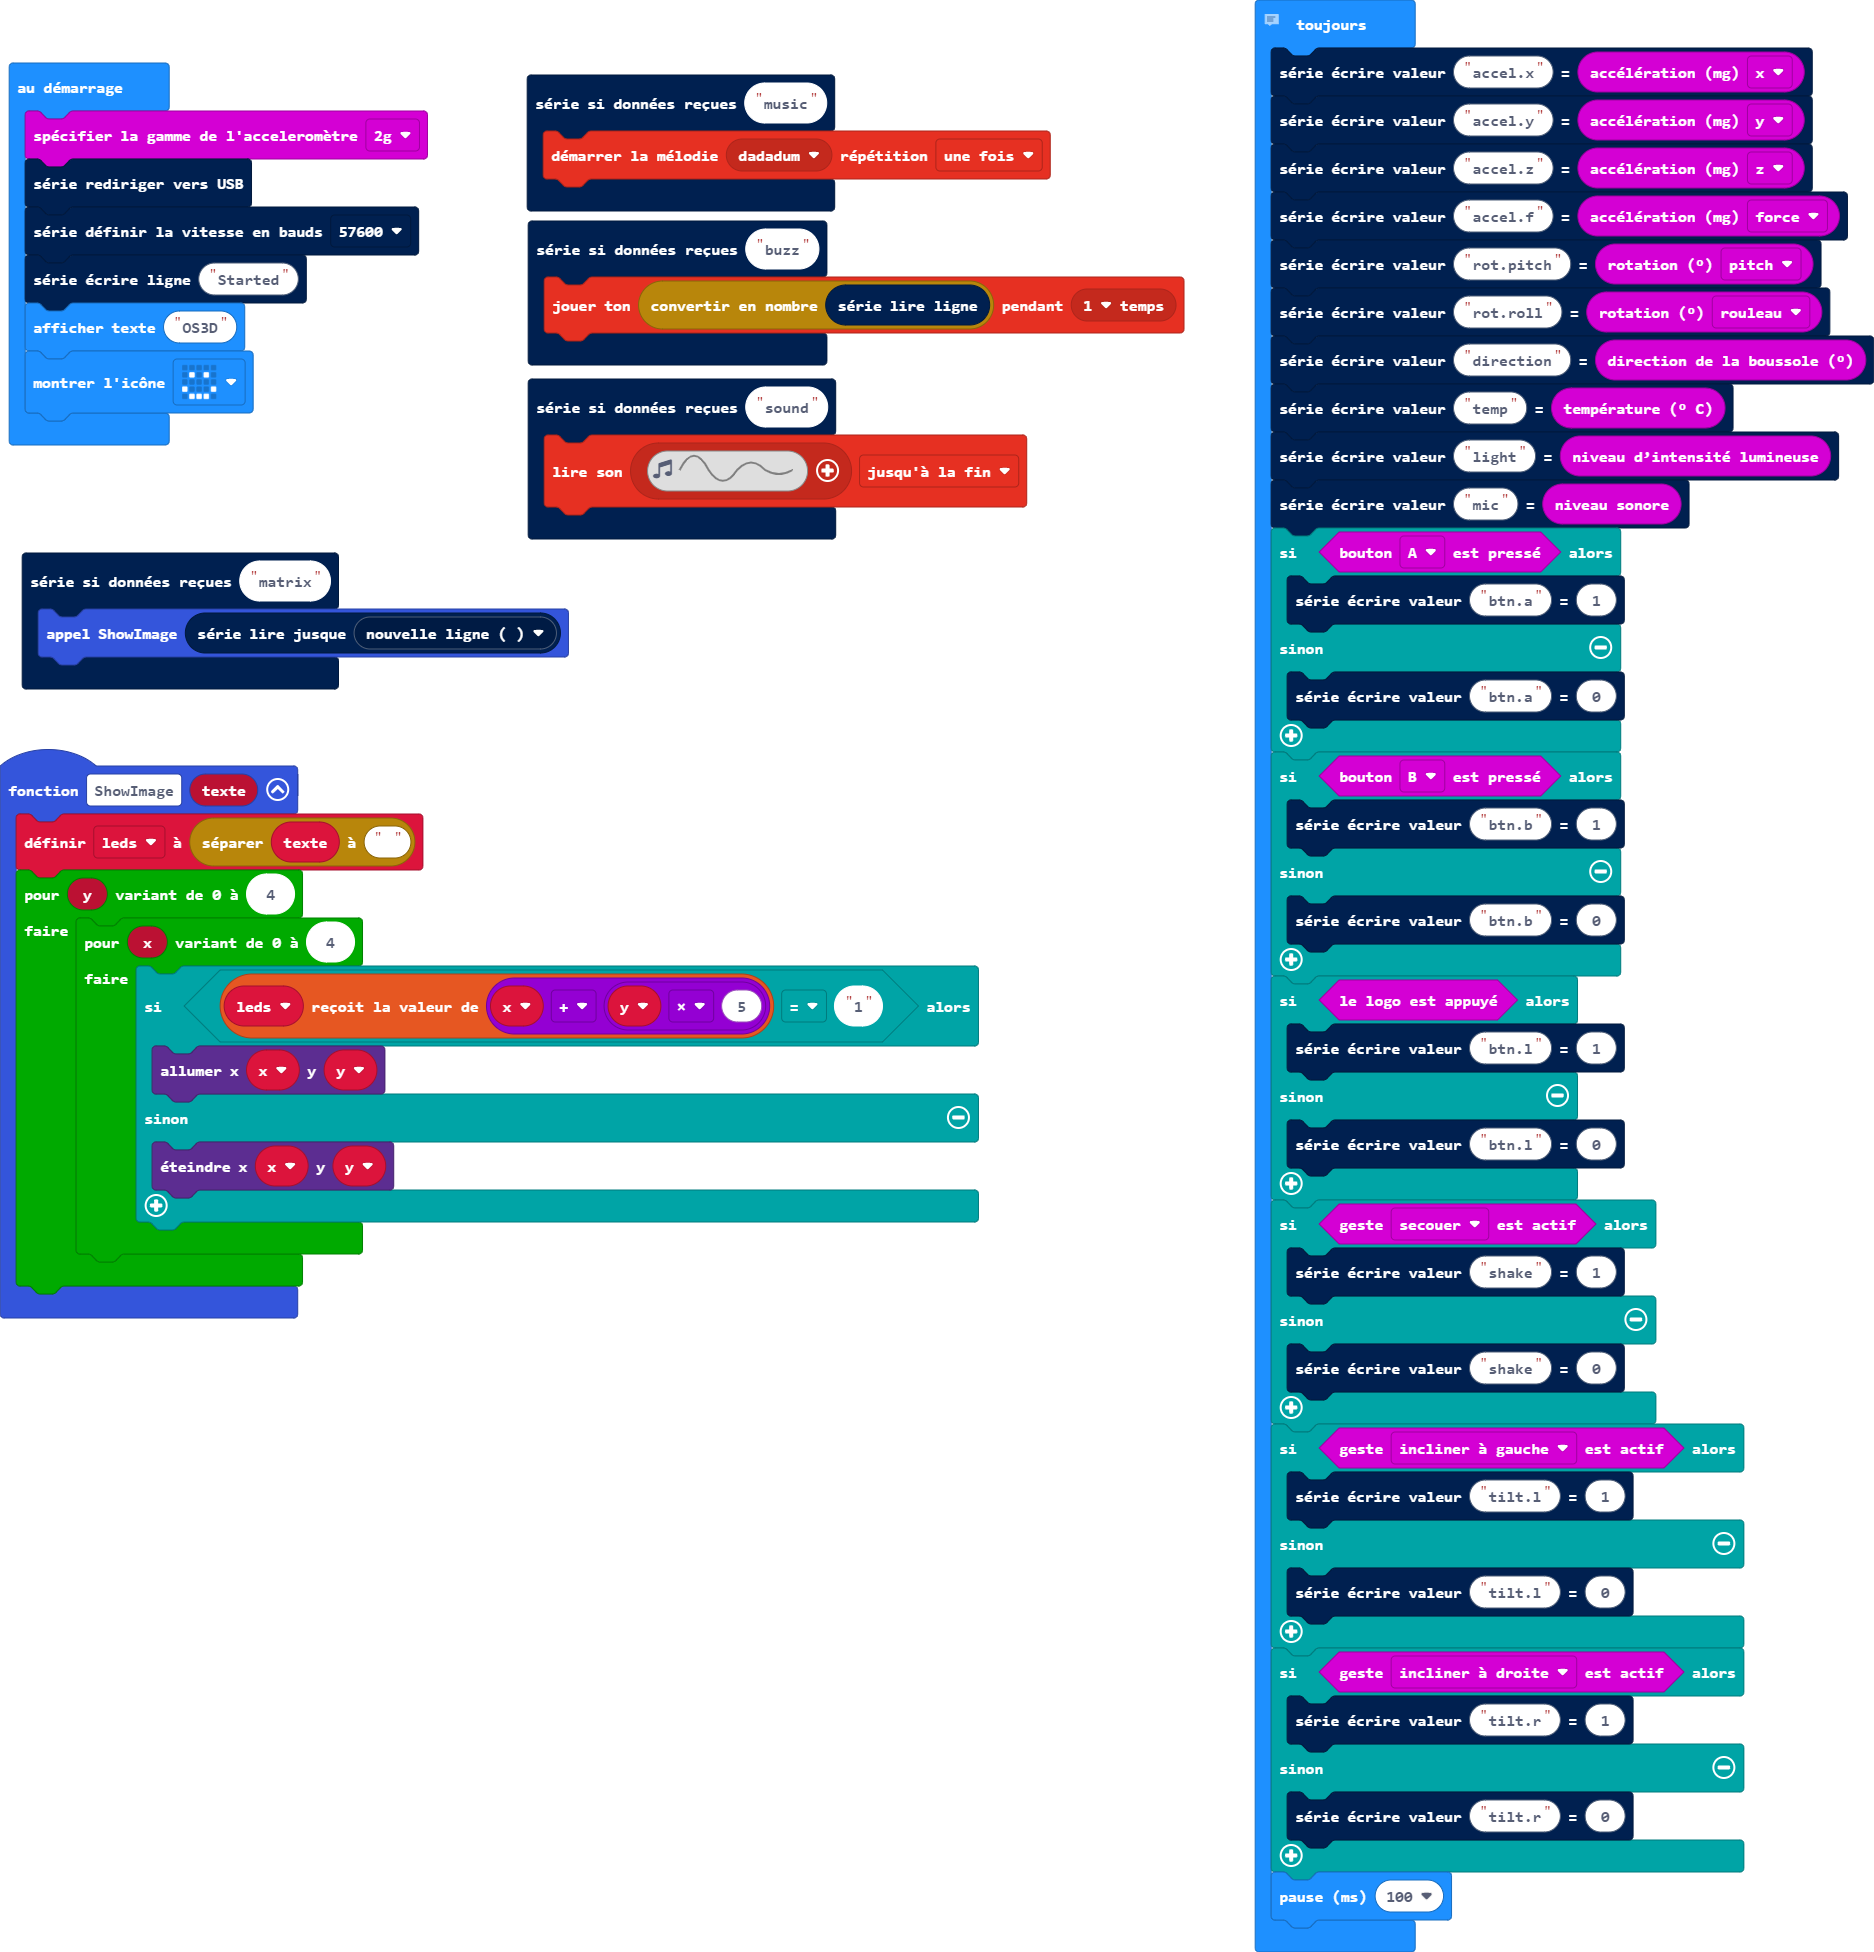
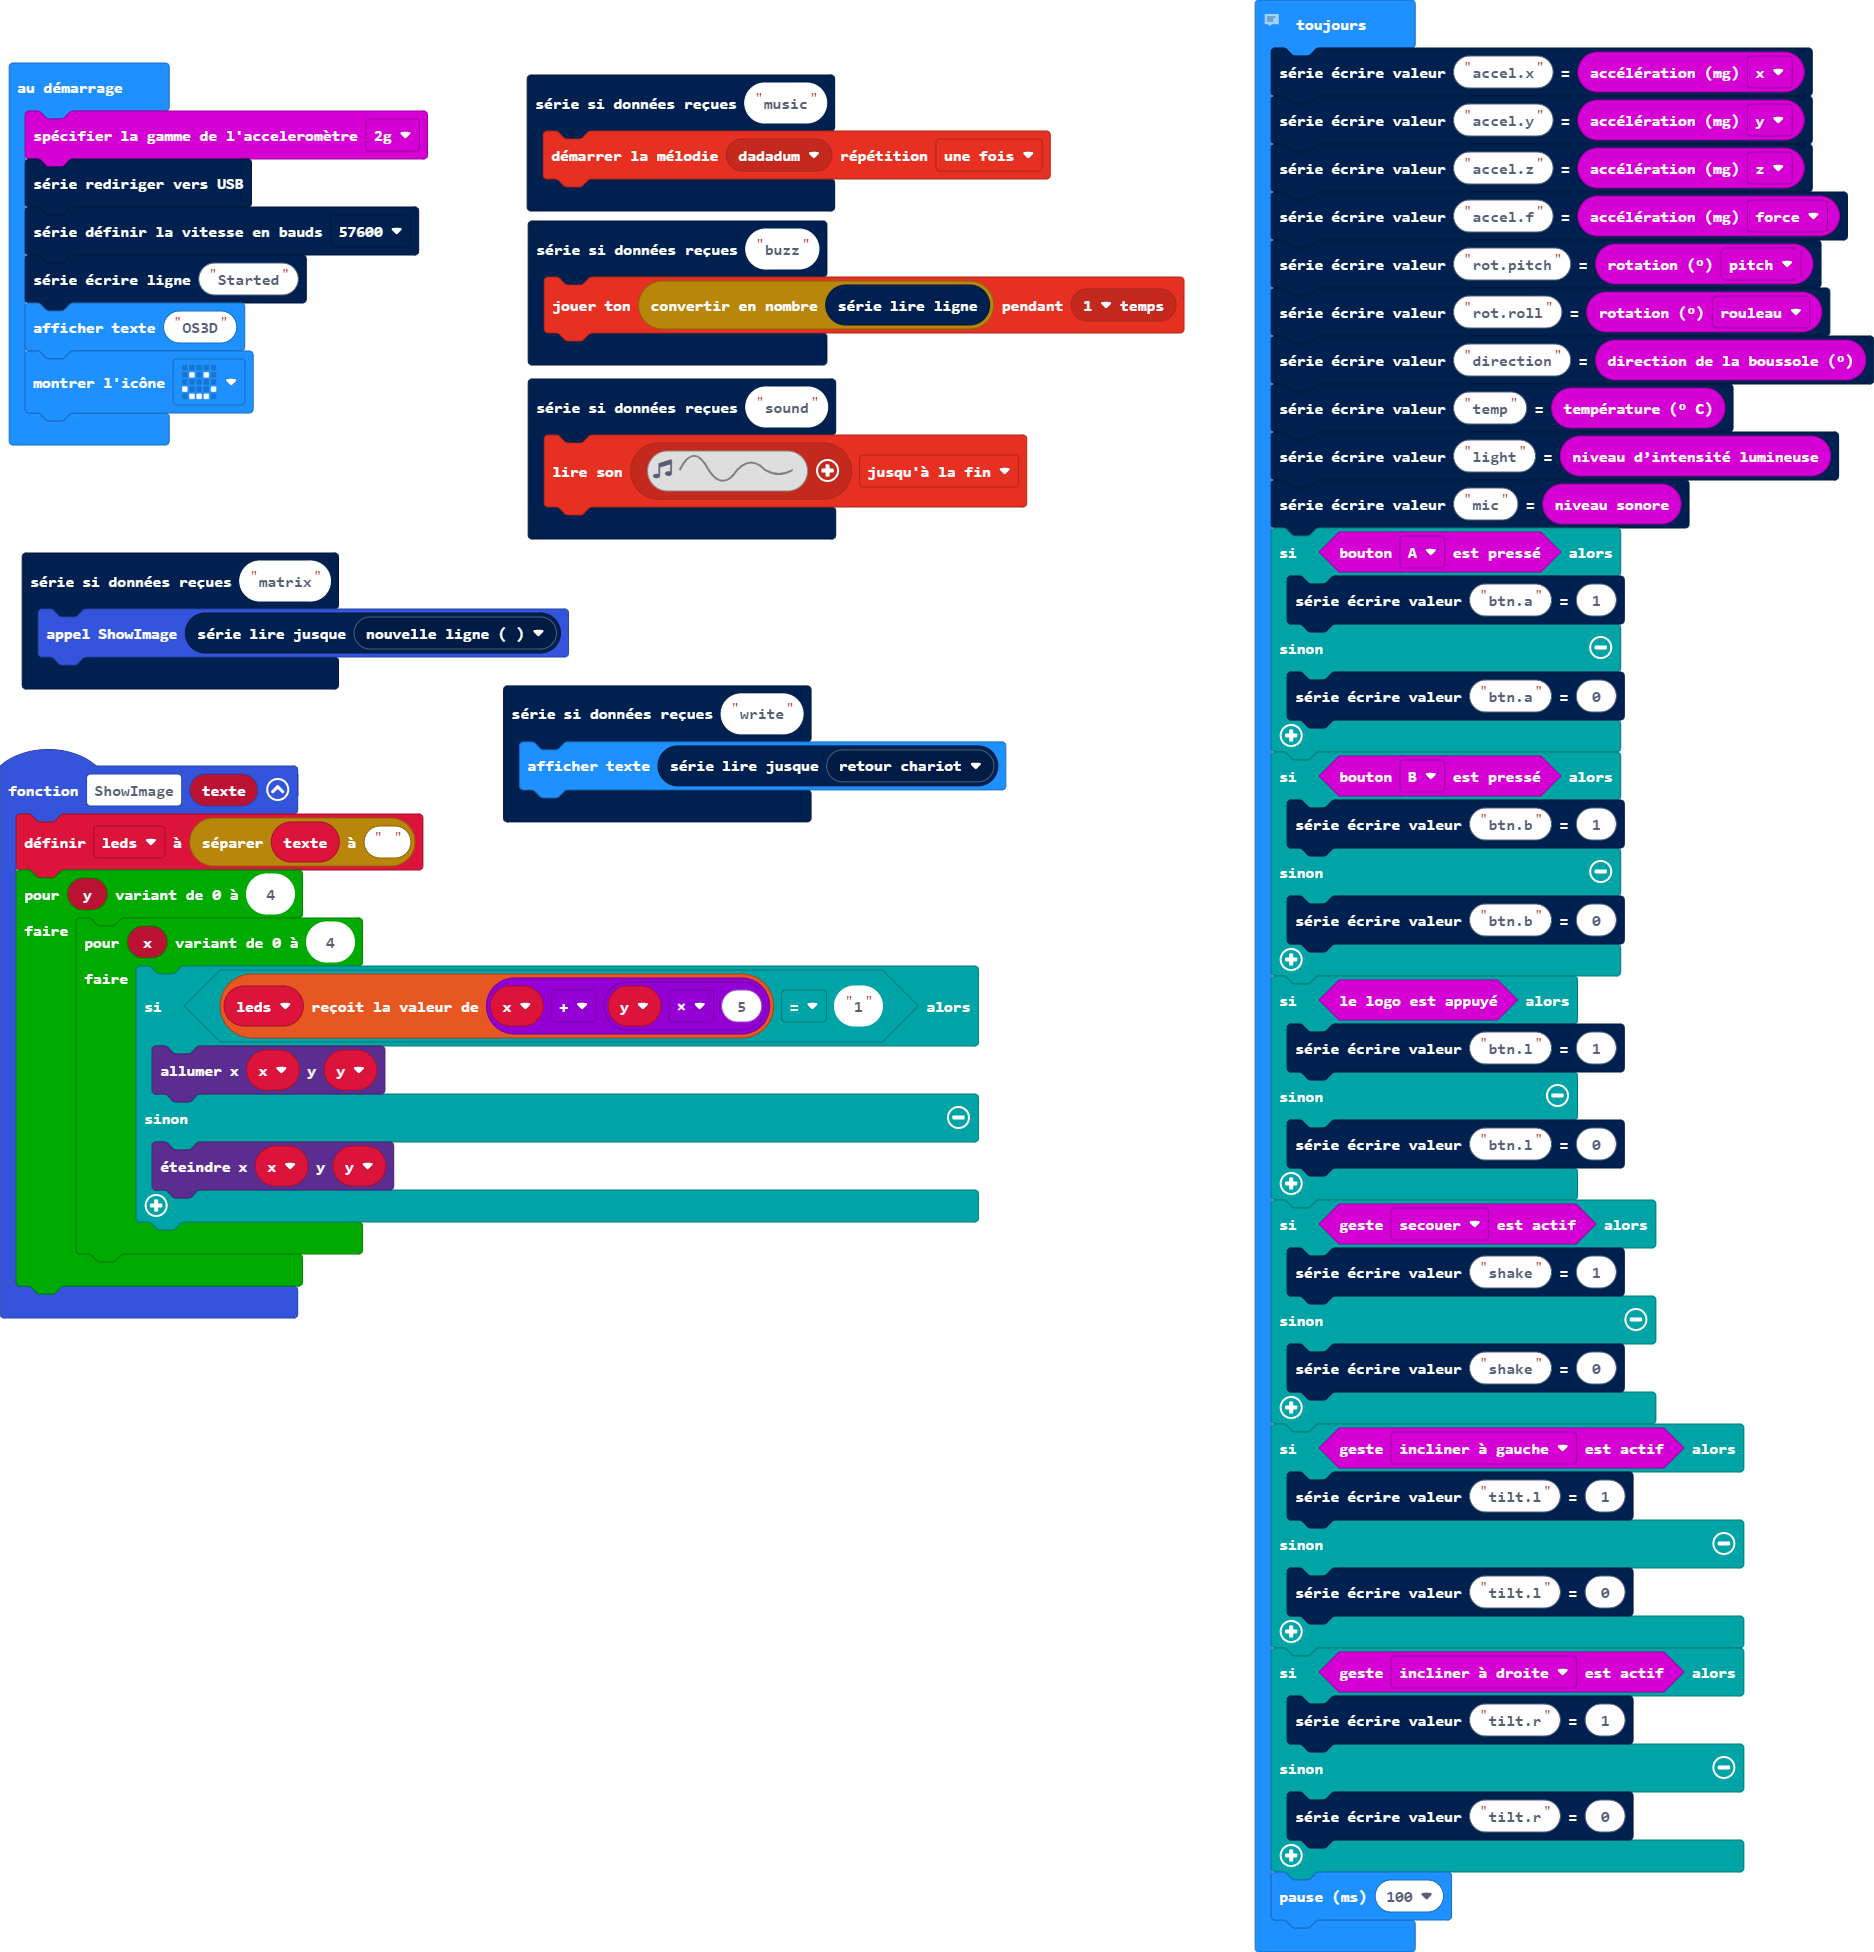
Mise à jour main.blocks, main.ts

Changed region(s): [[0.2476, 0.3438, 0.5571, 0.4375]]

diff --git a/main.ts b/main.ts
@@ -16,6 +16,9 @@ serial.onDataReceived("matrix", function () {
 serial.onDataReceived("sound", function () {
     music.playSoundEffect(music.createSoundEffect(WaveShape.Sine, 200, 600, 255, 0, 150, SoundExpressionEffect.None, InterpolationCurve.Linear), SoundExpressionPlayMode.UntilDone)
 })
+serial.onDataReceived("write", function () {
+    basic.showString(serial.readUntil(serial.delimiters(Delimiters.CarriageReturn)))
+})
 serial.onDataReceived("buzz", function () {
     music.playTone(parseFloat(serial.readLine()), music.beat(BeatFraction.Whole))
 })
